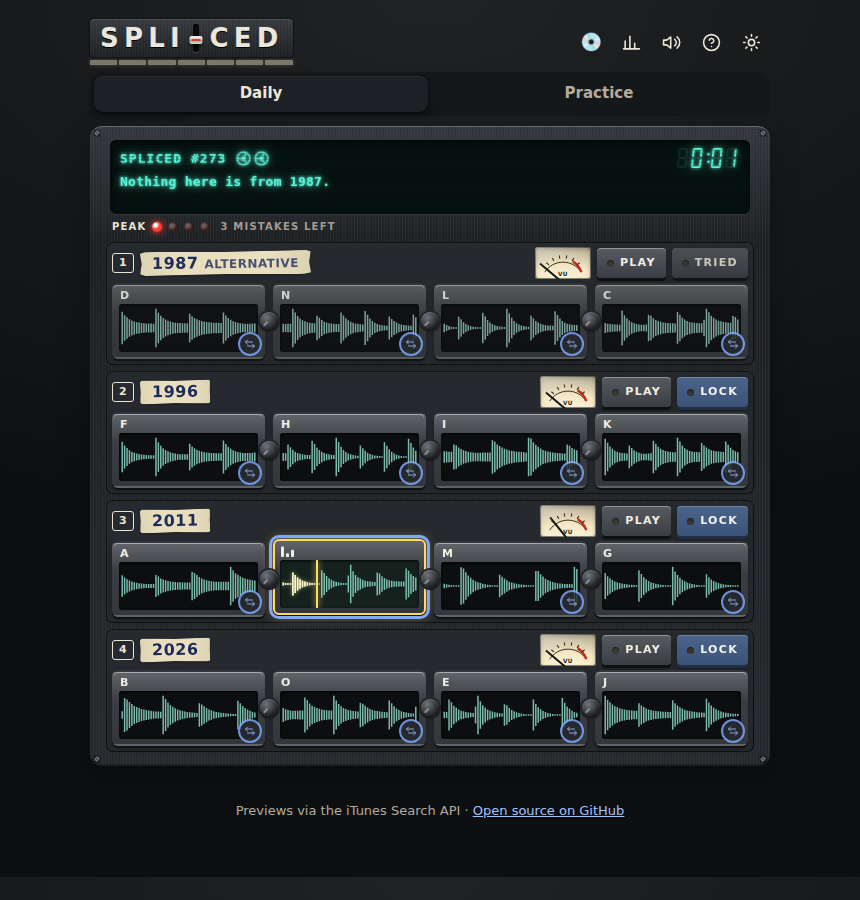
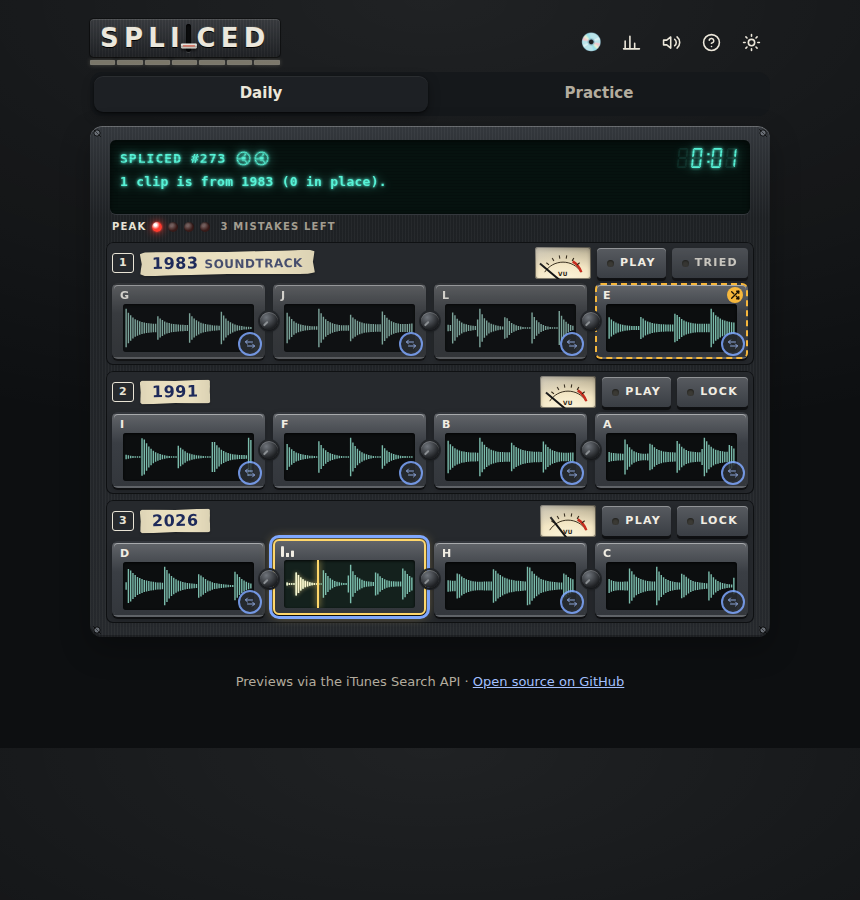
Daily is now 3 songs x 4 clips (a ~3 minute game, like Wordle)
Research: Wordle averages ~3.4 min/day, Connections ~4.5, Heardle <2. A
Monte Carlo timing model of Spliced's actions (auditions, swaps, seam
checks, row plays, lock-ins, quiz) put the 4x4 daily at a ~4.4 min median
with ~25% losses; 3 songs x 4 clips lands at ~3.1 min with ~4% losses
(keeping 4 mistakes), while 3x3 made ordering near-trivial with year
clues. Fewer songs cuts the slow 'which clip is which song' sorting; four
clips per song keep ordering an ear test.

- DAILY_TRACKS = 3 (re-shuffles the rotation; progress storage -> v5).
- Practice: Easy 3x3, Classic 3x4 (the daily), Hard 4x4.
- Copy, meta, JSON-LD, share image, README and screenshots say three.

Claude-Session: https://claude.ai/code/session_01Wti5VTZt4mTM6ftHzL11Hn

diff --git a/index.html b/index.html
@@ -6,7 +6,7 @@
     <title>Spliced: a daily music puzzle on an 80s mixing desk</title>
     <meta
       name="description"
-      content="Spliced is a free daily music puzzle. Four mystery songs are cut into clips and shuffled across an 80s mixing console. Sort them by ear, rebuild every track, and race your friends."
+      content="Spliced is a free daily music puzzle. Three mystery songs are cut into clips and shuffled across an 80s mixing console. Sort them by ear, rebuild every track, and race your friends."
     />
     <link rel="canonical" href="%SITE_URL%/" />
     <meta name="robots" content="index, follow, max-image-preview:large" />
@@ -34,7 +34,7 @@
     <meta property="og:title" content="Spliced: a daily music puzzle" />
     <meta
       property="og:description"
-      content="Four mystery songs, spliced and shuffled across an 80s mixing desk. Rebuild them by ear. A new mix every day."
+      content="Three mystery songs, spliced and shuffled across an 80s mixing desk. Rebuild them by ear. A new mix every day."
     />
     <meta property="og:image" content="%SITE_URL%/og.png" />
     <meta property="og:image:type" content="image/png" />
@@ -48,7 +48,7 @@
     <meta name="twitter:title" content="Spliced: a daily music puzzle" />
     <meta
       name="twitter:description"
-      content="Four mystery songs, spliced and shuffled across an 80s mixing desk. Rebuild them by ear. A new mix every day."
+      content="Three mystery songs, spliced and shuffled across an 80s mixing desk. Rebuild them by ear. A new mix every day."
     />
     <meta name="twitter:image" content="%SITE_URL%/og.png" />
     <meta
@@ -62,7 +62,7 @@
         "@type": "WebApplication",
         "name": "Spliced",
         "url": "%SITE_URL%/",
-        "description": "A free daily music puzzle: four mystery songs are cut into clips and shuffled across an 80s mixing console. Sort them by ear and rebuild every track.",
+        "description": "A free daily music puzzle: three mystery songs are cut into clips and shuffled across an 80s mixing console. Sort them by ear and rebuild every track.",
         "applicationCategory": "GameApplication",
         "genre": ["Puzzle", "Music"],
         "operatingSystem": "Any (web browser)",
@@ -93,7 +93,7 @@
     <noscript>
       <h1>Spliced: a daily music puzzle</h1>
       <p>
-        Four mystery songs are cut into clips and shuffled across an 80s mixing
+        Three mystery songs are cut into clips and shuffled across an 80s mixing
         console. Listen, swap and splice each song back onto its channel, then
         share your mix. Spliced needs JavaScript and Web Audio to play.
       </p>

diff --git a/src/components/DailyGame.tsx b/src/components/DailyGame.tsx
@@ -6,6 +6,7 @@ import { useCallback, useEffect, useMemo, useRef, useState } from 'react';
 import Puzzle, { puzzleDef } from './Puzzle.jsx';
 import Results from './Results.jsx';
 import Loading from './Loading.jsx';
+import { DAILY_CLIPS_PER_TRACK, DAILY_TRACKS } from '../../api/_songs.js';
 import { loadAndSliceTracks } from '../audio/slicer.js';
 import {
   addToCrate,
@@ -148,7 +149,16 @@ export default function DailyGame({
     // eslint-disable-next-line react-hooks/exhaustive-deps
   }, [finished, namedKey, tracks, daily]);
 
-  if (status === 'loading') return <Loading loaded={loaded} total={4} />;
+  if (status === 'loading') {
+    return (
+      <Loading
+        loaded={loaded}
+        total={DAILY_TRACKS}
+        rows={DAILY_TRACKS}
+        cols={DAILY_CLIPS_PER_TRACK}
+      />
+    );
+  }
 
   if (status === 'error') {
     return (

diff --git a/api/_songs.ts b/api/_songs.ts
@@ -118,8 +118,10 @@ export const SONGS: CuratedSong[] = [
   { title: 'Basket Case', artist: 'Green Day' },
 ];
 
-// Multi-track daily: four mystery songs, four clips per song.
-export const DAILY_TRACKS = 4;
+// Daily size: three mystery songs, four clips each. Sized for a ~3 minute
+// game (like Wordle): fewer songs cuts the slow "which clip is which song"
+// sorting, while four clips per song keep ordering a real ear test.
+export const DAILY_TRACKS = 3;
 export const DAILY_CLIPS_PER_TRACK = 4;
 export const DAILY_PIECES = DAILY_TRACKS * DAILY_CLIPS_PER_TRACK;
 

diff --git a/src/daily/storage.ts b/src/daily/storage.ts
@@ -4,9 +4,9 @@ import type { GameResult } from '../types.js';
 import type { GameState } from '../game/engine.js';
 
 const KEY = 'spliced:daily';
-// v4: Timeline rows (each row is one fixed song) with per-row tried keys;
-// older saves don't apply.
-const PROGRESS_KEY = 'spliced:progress:v4';
+// v5: three-song daily (Timeline rows, per-row tried keys); older saves
+// describe a different board and don't apply.
+const PROGRESS_KEY = 'spliced:progress:v5';
 const PREFS_KEY = 'spliced:prefs';
 
 type ResultMap = Record<number, GameResult>;

diff --git a/src/components/HowToPlay.tsx b/src/components/HowToPlay.tsx
@@ -33,7 +33,7 @@ export default function HowToPlay({ onClose }: { onClose: () => void }) {
   return (
     <Modal title="How to play" onClose={onClose} className="howto">
       <p className="howto-lede">
-        Four mystery songs were cut into clips and shuffled across the mixing
+        Three mystery songs were cut into clips and shuffled across the mixing
         desk. Each channel belongs to one song, and its tape shows the year it
         came out. Rebuild every song on its channel, in order.
       </p>

diff --git a/src/components/PracticeGame.tsx b/src/components/PracticeGame.tsx
@@ -13,8 +13,8 @@ import type { Track, TrackDef } from '../types.js';
 
 export const LEVELS = [
   { id: 'easy', label: 'Easy', songs: 3, clips: 3 },
-  { id: 'classic', label: 'Classic', songs: 4, clips: 4 },
-  { id: 'hard', label: 'Hard', songs: 5, clips: 4 },
+  { id: 'classic', label: 'Classic', songs: 3, clips: 4 },
+  { id: 'hard', label: 'Hard', songs: 4, clips: 4 },
 ] as const;
 type Level = (typeof LEVELS)[number];
 

diff --git a/scripts/og/og.html b/scripts/og/og.html
@@ -278,7 +278,7 @@
           </div>
         </div>
         <div class="tag">
-          Four mystery songs, <b>spliced</b> and shuffled. Rebuild them by ear.
+          Three mystery songs, <b>spliced</b> and shuffled. Rebuild them by ear.
         </div>
         <div class="sub">A new daily mix · free · no sign-up</div>
       </div>

diff --git a/README.md b/README.md
@@ -1,6 +1,6 @@
 # Spliced
 
-A **daily music puzzle** played on an 80s analog mixing console. Each day, four
+A **daily music puzzle** played on an 80s analog mixing console. Each day, three
 mystery songs are cut into clips and shuffled across the desk. Every channel
 belongs to one song, and its masking-tape label shows the year it came out.
 Listen, swap, and splice each song back onto its channel before the PEAK lamps
@@ -47,7 +47,7 @@ flips at UTC midnight), so times and scores are shareable.
 Your progress survives a refresh, a stats sheet tracks streaks and a
 mistakes histogram, and every song you uncover lands in your **Record crate**.
 **Practice** serves fresh mixes from past dailies (so it never spoils an
-upcoming day) at Easy (3×3), Classic (4×4), or Hard (5×4).
+upcoming day) at Easy (3×3), Classic (3×4, the daily size), or Hard (4×4).
 
 The console comes in **Studio Day** and **Studio Night** finishes, with
 synthesized switch clicks, knob detents, a channel-open chime, and needle VU
@@ -71,7 +71,7 @@ Native American Heritage Month) by the player's local date — see
   every player hears the **byte-identical audio** — no per-request resolution,
   no regional drift. No API key required.
 - **Deterministic selection.** [`/api/daily`](./api/daily.ts) picks the day's
-  four songs by UTC date via a **per-epoch shuffle** of the whole catalog: each
+  three songs by UTC date via a **per-epoch shuffle** of the whole catalog: each
   full pass is a fresh deterministic shuffle, so no song repeats within an epoch
   and groupings stay varied. The puzzle number also seeds the clip slicing and
   the board scramble, so everyone gets the same board. The day's songs are laid
